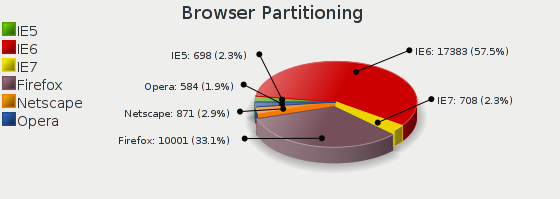
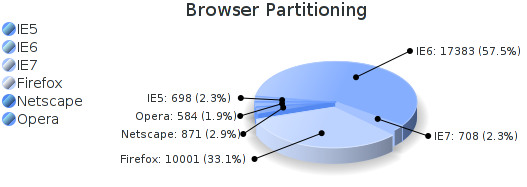
- ezc talk for forum php, and updated the graph.

diff --git a/slides/ezc/graph2.php b/slides/ezc/graph2.php
@@ -2,6 +2,8 @@
 require 'ezc-setup.php';
 
 $chart = new ezcGraphPieChart();
+$chart->palette = new ezcGraphPaletteEzBlue();
+
 $chart->title = 'Browser Partitioning';
 
 $chart->data['browser'] = new ezcGraphArrayDataSet( array(
@@ -17,7 +19,7 @@ $chart->data['browser']->highlight['Firefox'] = true;
 $chart->driver = new ezcGraphSvgDriver();
 
 $chart->renderer = new ezcGraphRenderer3d();
-$chart->renderer->options->pieChartShadowSize = 10;
+$chart->renderer->options->pieChartShadowSize = 12;
 $chart->renderer->options->pieChartGleam = .5;
 $chart->renderer->options->dataBorder = false;
 $chart->renderer->options->pieChartHeight = 16;
